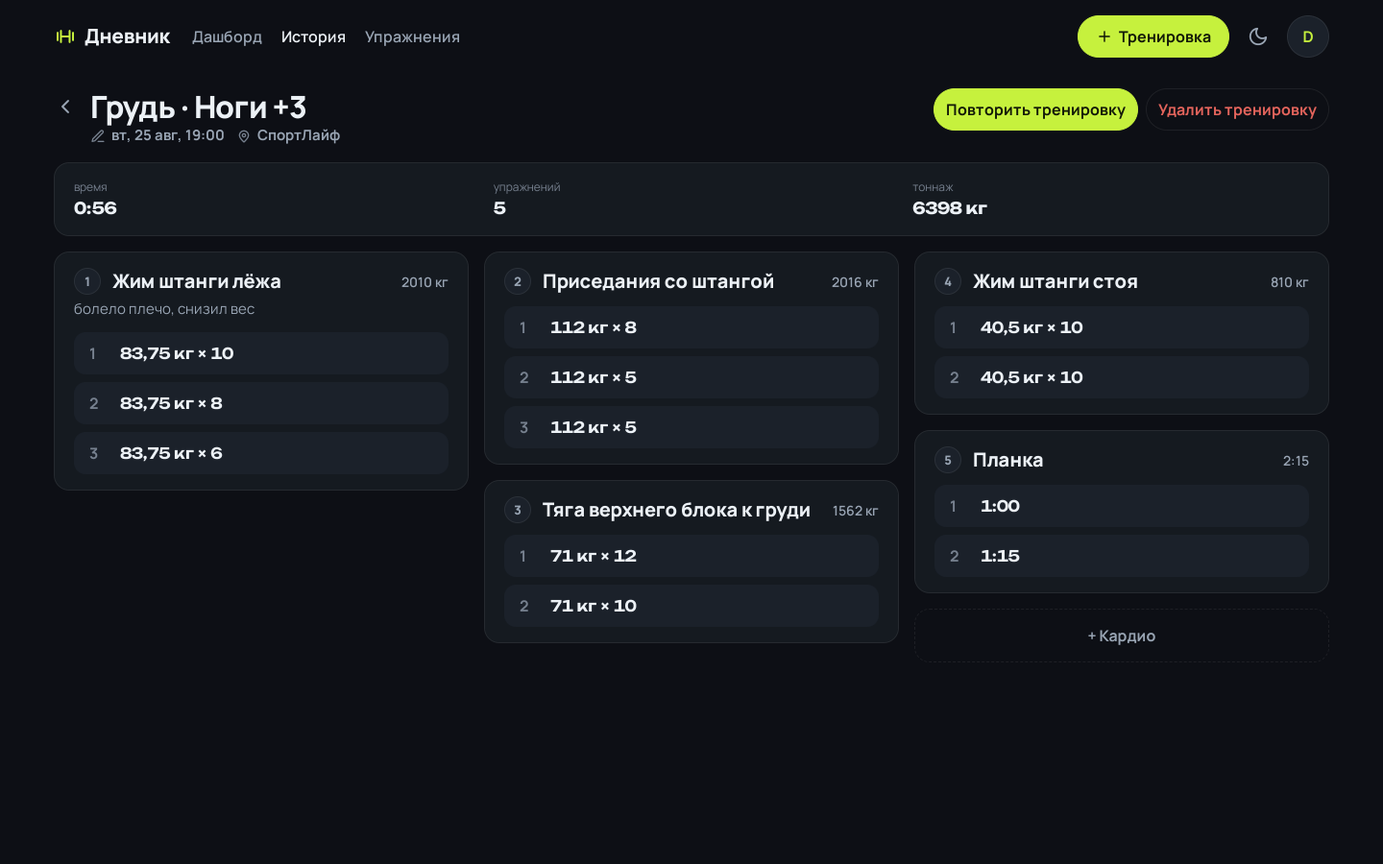
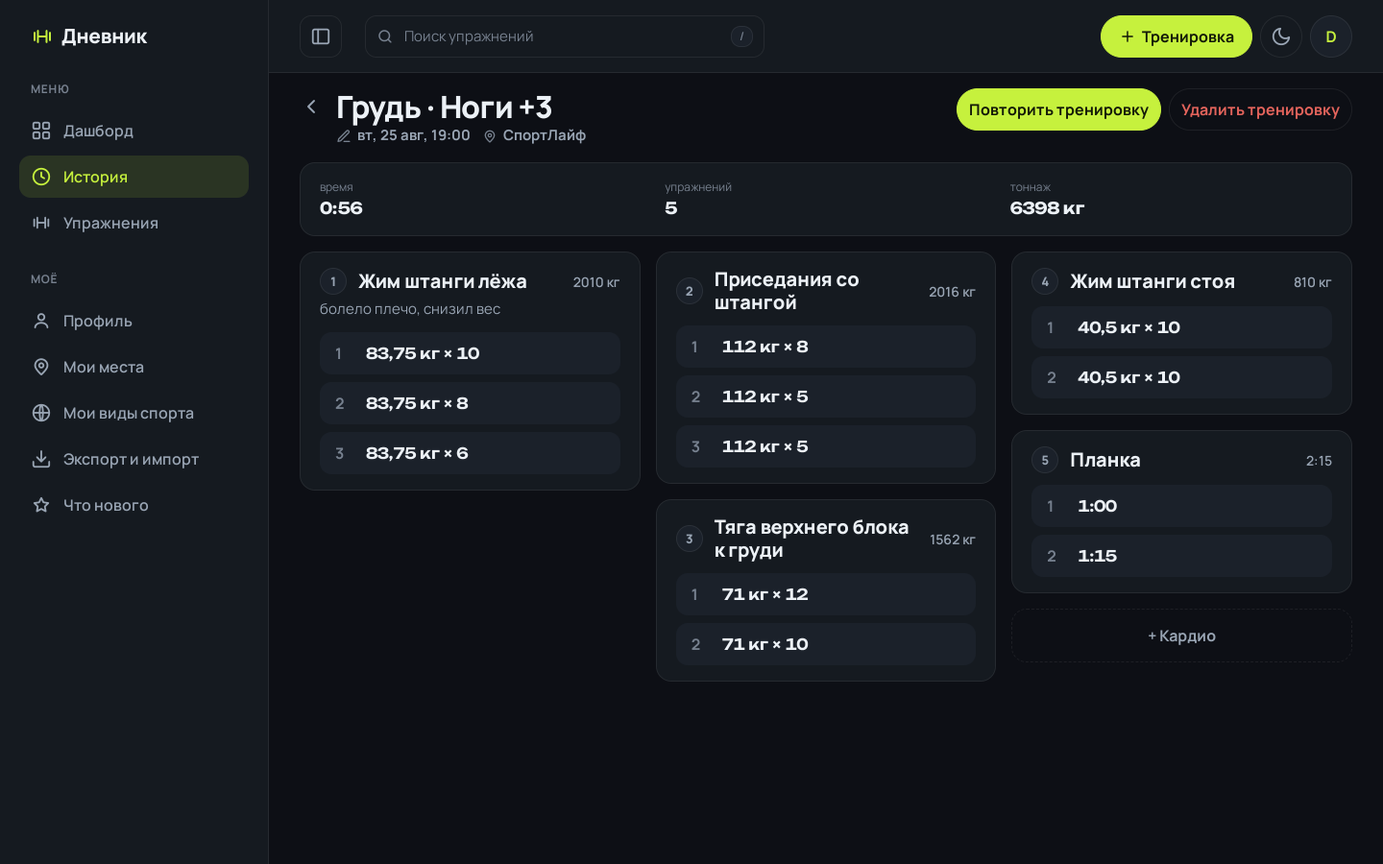
ПК: неделя истории — таблица-карточка, плитка пользователя
История на 1200 в духе TailAdmin: строки недели стоят вплотную и делят одну
рамку, скруглены только края недели, при наведении строка подсвечивается фоном.
Карточка пользователя в профиле на 1200 — плитка: рядом с боковой панелью
колонка стала узкой, и почта ломалась посреди слова. Скриншоты реализации в
docs/design пересняты с боковой панелью.

diff --git a/static/css/app.css b/static/css/app.css
@@ -3348,6 +3348,22 @@ a.btn {
   }
   .app-profile-user,
   .app-profile-catalogs { align-self: stretch; }
+  /* Карточка пользователя — плитка, как соседние: аватар сверху, почта и
+     отметка внизу. Рядом с боковой панелью колонка ~250px, и в строку с
+     аватаром длинный адрес ломался посреди слова. Почта — одной строкой с
+     многоточием, полный адрес — в title. */
+  .app-profile-user {
+    flex-direction: column;
+    align-items: flex-start;
+    justify-content: space-between;
+  }
+  .app-profile-user > div { max-width: 100%; }
+  .app-profile-email {
+    overflow: hidden;
+    overflow-wrap: normal;
+    text-overflow: ellipsis;
+    white-space: nowrap;
+  }
   /* Заголовок над плитками не нужен: ряд читается как плитки дашборда.
      Читалкам он остаётся — прячем визуально, как .visually-hidden. */
   .app-profile-catalogs > .app-section-title {
@@ -3609,8 +3625,35 @@ a.btn {
         minmax(0, 1fr)          /* заметка забирает остаток ширины */
         max-content;            /* действия */
       column-gap: var(--app-space-6);
-      row-gap: var(--app-space-2);
+      row-gap: 0;
       align-items: center;
+    }
+
+    /* Неделя — одна таблица-карточка, как у TailAdmin: строки стоят вплотную и
+       делят рамку (соседняя заезжает на пиксель), скруглены только верх первой
+       строки недели и низ последней. Всё на соседстве в плоском списке —
+       обёртки недели в разметке нет, а подгрузка «Показать ещё» дописывает
+       строки той же недели прямо за предыдущими. */
+    .app-feed > .app-workout + .app-workout {
+      margin-top: -1px;
+      border-top-left-radius: 0;
+      border-top-right-radius: 0;
+    }
+    .app-feed > .app-workout:has(+ .app-workout) {
+      border-bottom-left-radius: 0;
+      border-bottom-right-radius: 0;
+    }
+    .app-feed > .btn { margin-top: var(--app-space-4); }
+
+    /* В таблице строка не «взлетает» при наведении, как карточка, а
+       подсвечивается фоном: подъём одной строки рвал бы общую рамку недели. */
+    @media (hover: hover) and (pointer: fine) {
+      .app-feed > .app-workout-link:hover {
+        border-color: var(--app-line);
+        background-color: var(--app-raised);
+        box-shadow: none;
+        transform: none;
+      }
     }
 
     /* Заголовки недель, «Показать ещё» и пустое состояние — во всю строку:
@@ -3632,6 +3675,7 @@ a.btn {
       align-items: center;
       padding: var(--app-space-3) var(--app-space-4);
       margin-bottom: 0;
+      box-shadow: none;
     }
 
     /* Зазор в subgrid-оси берёт родитель, но прописываем то же значение и здесь:

diff --git a/templates/accounts/profile.html b/templates/accounts/profile.html
@@ -17,7 +17,7 @@
   <section class="app-card app-profile-user">
     <span class="app-avatar app-avatar-lg" aria-hidden="true">{{ user.initial }}</span>
     <div>
-      <div class="app-profile-email">{{ user.email }}</div>
+      <div class="app-profile-email" title="{{ user.email }}">{{ user.email }}</div>
       {% if email_verified %}
         <div class="app-profile-verified">
           <svg width="16" height="16" viewBox="0 0 24 24" fill="none" stroke="currentColor"

diff --git a/CLAUDE.md b/CLAUDE.md
@@ -60,7 +60,7 @@
 ## Дизайн (эталон утверждён 25.08.2026)
 
 - Визуальный эталон — макеты семи экранов (дашборд моб. и десктоп, живой режим, кардио-форма, история, профиль, «что нового»); PNG-экспорты лежат в `docs/design/`. Верстать по ним: компоновка, плотность, скругления, иерархия текста.
-- Файлы `docs/design/*-desktop.png`, **кроме `dashboard-desktop.png`**, — не макеты дизайнера, а утверждённые скриншоты реализации: десктопных макетов для этих экранов не рисовали. Живой экран, итог, профиль и «Что нового» пересняты 03.10.2026, когда ПК-версия стала дашбордом во всю ширину; каталог и история на 1440 с тех пор не менялись. Сверять с ними компоновку можно, но при расхождении с правилами ниже главнее правила.
+- Файлы `docs/design/*-desktop.png`, **кроме `dashboard-desktop.png`**, — не макеты дизайнера, а утверждённые скриншоты реализации: десктопных макетов для этих экранов не рисовали. Живой экран, итог, профиль, «Что нового» и история пересняты 03.10.2026 уже с боковой панелью (каркас TailAdmin); `exercise-desktop.png` — ещё со старой верхней навигацией: на нём график, а настоящий Chart.js в окружении разработки не отрисовывается, заглушка исказила бы снимок. Сверять с ними компоновку можно, но при расхождении с правилами ниже главнее правила.
 - Тёмная тема — основная (как в макетах); светлая строится из тех же ролей токенов, ниже даны оба набора. Bootstrap-переменные (`--bs-body-bg`, `--bs-body-color` и т.п.) переопределяются из tokens.css под оба значения `data-bs-theme`.
 - **Шрифты** (Google Fonts, woff2-файлы хранить локально в `static/fonts/`): Unbounded 600/700 — крупные числа и таймеры (утилитарный класс `.num`); Manrope 400–800 — весь остальной текст. Fallback: `system-ui, sans-serif`. Unbounded лежит одним сабсетом (`unbounded-subset.woff2`): в `.num` попадают только цифры, знаки и единицы вроде «кг», «повторов», поэтому штатные сабсеты Google качали 82 КБ ради букв, которых там не бывает. Набор символов взят с запасом — вся базовая кириллица, — так что новое слово внутри `.num` ничего не сломает; команда перегенерации записана в шапке `static/css/fonts.css`. Три реально нужных файла шрифтов предзагружаются (`rel="preload"` в `_page.html`), остальные сабсеты Manrope браузер не запрашивает.
 - **Токены тёмной темы** (из макетов): фон `#0D1015`; карточка `#151A21`; приподнятая поверхность `#1B222B`; линия `rgba(255,255,255,.08)`; текст `#EDF1F7`, вторичный `#9AA5B5`, приглушённый `#77828F`; акцент `#C6F13E` (текст на акценте `#141A08`); успех/положительная дельта `#0ca30c`.
@@ -79,7 +79,7 @@
 - **Обёртки для сеток — `div` без роли с `display: contents` ниже 768** (`.app-summary`, `.app-summary-list`, `.app-modal-cols/col`, `.app-picker-list`, `.app-catalog-group`, `.app-transfer`, `.app-form-cols/col`, `.app-news-list`, `.app-auth-aside`): на телефоне они не образуют боксов, дерево и отступы прежние, а на ПК становятся колонками. Порядок DOM не меняется — на него опираются тесты. Никогда не на кнопки, ссылки, списки и секции с подписью. Структурные селекторы, которые обёртка сломала бы, переводятся на неё: `.app-group-title:first-of-type` стал `.app-catalog-group:first-child > .app-group-title`, иначе отступ сняло бы у заголовка каждой группы — и на телефоне.
 - **Утилиты Bootstrap с `!important` на элементах, которые на ПК меняют размер, заменены своими классами** с тем же мобильным значением: `app-btn-fill` вместо `w-100` (кнопки, которые на ПК встают в ряд по содержимому), `app-start-mode` вместо `mt-3`. Из медиазапроса утилиту не перебить.
 - **Последовательность — колонками, а не строками сетки.** Упражнения в итоге тренировки раскладываются CSS `columns`: колонки заполняются сверху вниз, и 1, 2, 3 идут по первой; сетка по строкам дала бы 1, 3, 5 по левому столбцу. Новости, наоборот, — доска по рядам: новое слева сверху, хронология читается от новой к старой.
-- **История на средних экранах — доска из двух колонок** (недели, «Показать ещё» и пустое состояние — во всю строку; подгрузка вставляет карточки прямо в сетку). **На 1200px — плотные строки**: колонки задаёт список (`.app-feed`), карточки берут их через `grid-template-columns: subgrid`, поэтому цифры выравниваются через все недели без магических ширин. Всё под `@supports (subgrid)`. Состав метрик у силовой и кардио различается, поэтому колонки позиционные: 3-я — время, 4-я — «сколько», 5-я — «насколько интенсивно». Место и заметка **делят 6-ю колонку** (`.app-workout-meta`): своего трека месту не дают, потому что `max-content` зарезервировал бы его ширину во всех строках, а у истории до появления справочника места нет вовсе. На телефоне обёртка не образует бокса (`display: contents`), поэтому карточка рендерится как до фичи; на 1200px внутри колонки это один текстовый прогон с единственной точкой обрезки, а зазор даёт `margin`, а не символ-разделитель — тот остался бы висеть при обрезке. Классы в 1200-блоке перечислены явно, без `> *`: мобильное правило `.app-workout-meta > .app-place` весит два класса и перебило бы селектор с универсальным.
+- **История на средних экранах — доска из двух колонок** (недели, «Показать ещё» и пустое состояние — во всю строку; подгрузка вставляет карточки прямо в сетку). **На 1200px — плотные строки**: колонки задаёт список (`.app-feed`), карточки берут их через `grid-template-columns: subgrid`, поэтому цифры выравниваются через все недели без магических ширин. Неделя выглядит одной таблицей-карточкой (приём TailAdmin): строки стоят вплотную и делят рамку (`margin-top: -1px`), скруглены только верх первой строки недели и низ последней — на соседстве в плоском списке (`.app-workout + .app-workout`, `:has(+ .app-workout)`), потому что обёртки недели в разметке нет, а «Показать ещё» дописывает строки той же недели прямо за предыдущими. Строка при наведении подсвечивается фоном, а не «взлетает»: подъём одной строки рвал бы общую рамку. Всё под `@supports (subgrid)`. Состав метрик у силовой и кардио различается, поэтому колонки позиционные: 3-я — время, 4-я — «сколько», 5-я — «насколько интенсивно». Место и заметка **делят 6-ю колонку** (`.app-workout-meta`): своего трека месту не дают, потому что `max-content` зарезервировал бы его ширину во всех строках, а у истории до появления справочника места нет вовсе. На телефоне обёртка не образует бокса (`display: contents`), поэтому карточка рендерится как до фичи; на 1200px внутри колонки это один текстовый прогон с единственной точкой обрезки, а зазор даёт `margin`, а не символ-разделитель — тот остался бы висеть при обрезке. Классы в 1200-блоке перечислены явно, без `> *`: мобильное правило `.app-workout-meta > .app-place` весит два класса и перебило бы селектор с универсальным.
 - **Справочник упражнений на 1200px — мастер-деталь по выбору**: пока упражнение не выбрано, список идёт во всю ширину (плитки «Я тренирую» заполняют ряд, справочник — колонками доски): пустая панель-заглушка на пол-экрана рядом с узкой колонкой и делала страницу полумобильной. Выбор упражнения делит экран — `exercise.js` ставит `.is-open` на `[data-exercise-catalog]` (класс, а не `:has()`: без его поддержки панель осталась бы скрытой, и клик ничего бы не показал; класс ставится до сборки графика — на скрытом canvas `renderChart` молча выходит). Крестик в шапке панели (`data-exercise-close`, только в панели), Esc (кроме как поверх модалки) и «назад» закрывают её; крестик — новой записью в истории на адрес списка с фильтрами, а не `history.back()`: после нескольких открытых упражнений «назад» вело бы к предыдущему упражнению. `ExerciseDetailView` смотрит `HX-Request` и отдаёт `_exercise_detail_body.html` вместо страницы; отдельного URL у панели нет, чтобы проверка доступа осталась в одном месте. Клик перехватывается в JS: в htmx `preventDefault()` для клика по `<a>` срабатывает раньше фильтра события, поэтому `hx-trigger="click[matchMedia…]"` убил бы навигацию на мобильном. График после свопа пересобирается через `appCharts.destroy()` — иначе Chart.js падает на переиспользованном canvas. Левая колонка 30rem и **без внутренней прокрутки**: своя полоса торчала посреди экрана, а липкой колонку делать нельзя — залипший элемент выше вьюпорта перестаёт двигаться, и всё ниже кромки становится недостижимым. По той же причине липкая только шапка панели (`.app-exercise-head`), а не панель: у упражнения с двумя десятками тренировок она уходит на три экрана. Элементы списка общаются с JS через `data-exercise-item` / `data-exercise-link`, а не через классы: классы стилевые и меняются вместе с вёрсткой, а в мастер-деталь одинаково попадают и плитка, и строка. Порядок блоков на 1200px задаёт `order` у прямых детей `.app-exercise`, поэтому **новый блок обязан быть одной секцией со своим `order`**: заголовок и список по отдельности разъедутся по разным местам экрана. Ритм между блоками — `gap` флекс-колонки `.app-exercise` на всех ширинах, а не поля блоков: при перестановке `order` поле «снизу» оказывалось не у того соседа, и график вставал вплотную к настройкам. Сводка «По местам» (рекорд и число тренировок в каждом месте) считается в Python по уже загруженным подходам — `select_related("workout__location")` добавляет один LEFT JOIN в тот же запрос, поэтому бюджет 9 не двигается; показывается только при двух и более разрезах, «Место не указано» — такой же разрез, как остальные.
 - **Каталог упражнений делится на два блока**: сверху «Я тренирую» — плитки упражнений с записанными тренировками (рекорд, число тренировок, дата последней, свежие первыми), ниже полный справочник по группам мышц. Признак — `workouts_count > 0`, **а не наличие рекорда**: метрика весовых упражнений это вес, поэтому у подтягиваний с собственным весом и у упражнения со сменённой единицей рекорда нет, а тренировок двадцать. Дата берётся вторым агрегатом на том же джойне (`Max("sets__workout__started_at", filter=…)`) — это ноль дополнительных запросов, а бюджет каталога упёрт в 7. Выполненное упражнение остаётся и в справочнике: иначе в «Груди» не оказалось бы жима лёжа. Один URL поэтому соответствует двум элементам, и подсветка выбранного зажигает оба — это следствие решения, а не дефект. При активном поиске или фильтре блок плиток скрывается: тогда нужен один список результатов.
 - **Живой экран — явные ряды**: с 768 две колонки (слева текущее упражнение со степперами, справа стопка: отдых, «Дальше», «Выполнено», кардио), с 1200 три равные зоны — «Сейчас», «Дальше» и колонка из таймера, выполненного и кардио. Текущее упражнение (и «Дальше» на 1200) занимает ряды до последнего `1fr`, который забирает его лишнюю высоту; с автоматическими рядами колонки были бы связаны общей строкой, и правая стопка начиналась бы только под карточкой степперов. Пустой ряд схлопывается в ноль — поэтому `row-gap` нет, отступы дают блоки. Без текущего упражнения (`:not(:has(.app-live-now *))`) блоки занимают и рабочую колонку. **Таймер не липкий**: в сетке липкость ограничена ячейкой, а ряд таймера равен его же высоте — двигаться ему некуда, и прежнее «таймер на виду» так и не работало. Новый блок колонки — новый ряд.
@@ -88,7 +88,7 @@
 - **Цель на неделю** (только ПК, приём TailAdmin «Monthly Target»): `User.weekly_goal_minutes` (NULL = цели нет; границы 0:30–40:00 держит `CheckConstraint weekly_goal_in_range` — цель правят и через админку, а ноль дал бы деление на ноль). Неделя календарная (пн–вс), минуты берутся из `weekly_chart` (`totals`, последний элемент — эта неделя): тот же счёт, что у графика рядом, и ни одного запроса сверху — бюджет дашборда не двигается. Шкала — SVG-полукруг с `pathLength="100"`: длина дуги задаётся прямо процентом, без JS; цвет — `--app-accent-text` (чистый лайм на белой карточке не виден). Процент может быть больше ста — дуга тогда полная, а число честное. Задаётся модалкой из самой карточки (`profile_goal` в `accounts`, схема дня черновика: ответ — карточка out-of-band, модалка закрывается сама); часы принимаются как «4», «4,5» и «4:30». До 1200 боковая часть дашборда не образует бокса, и цель с прожектором стоят рядом сразу под плитками (порядок — `order`, DOM прежний), с 1200 цель — первая в правой колонке. На телефоне карточки нет: мобильный дашборд остаётся по макету.
 - **«Статистика» за год** (только ПК, приём TailAdmin «Statistics»): время, тоннаж и дистанция по месяцам за 12 месяцев, вкладки-сегменты (`.app-tabs`, поверхности — токены `--app-segment-*`: в тёмной теме активный сегмент светлее подложки, в светлой — белая карточка на сером). Дашборд рендерит только заготовку той же высоты, а данные карточка забирает сама, когда попадает в поле зрения (`hx-trigger="intersect once"` → `dashboard_stats`): на телефоне она скрыта, IntersectionObserver её не видит, и запроса нет вовсе, а бюджет самого дашборда не двигается. Все три вкладки приходят одним ответом (`stats.monthly_stats` — четыре запроса: тренировки, тоннаж, кардио-части, виды спорта; тест бюджета — 8 вместе с сессией и SAVEPOINT), поэтому вкладки переключает `dashboard.js` без запросов. Время делится между хозяином и частями так же, как в `weekly_chart`, месяц — по локальной дате. График — линии видов спорта с мягкой градиентной заливкой (`appCharts.buildArea`), одна ось справа, легенда HTML-ом. В Playwright этого окружения IntersectionObserver не срабатывает (нет кадров отрисовки, как и у rAF) — на скриншотах карточку подгружает `htmx.ajax`.
 - **Справочник во всю ширину**: плитки «Я тренирую» заполняют ряд (`auto-fill` по `--app-measure-tile`), справочник идёт колонками доски (2 с 768, 3 с 1200, пока панель не открыта), группа — неразрывный блок; отфильтрованный список без заголовков групп колонками не режется. **Страница упражнения** — во всю ширину: перестановка блоков, сетка настроек и крупный график — с 768, на 1200 четыре блока настроек в один ряд (`:where(.app-main) > .app-exercise` — панель каталога не прямой ребёнок main, её правило не задевает).
-- **Профиль — плитки**: с 768 две колонки, с 1200 четыре — пользователь и три плитки справочников с крупными счётчиками в одном ряду, как плитки дашборда, ниже настройки, приложение и аккаунт. Счётчики уже посчитаны: бюджет профиля 9 из 9 не тронут.
+- **Профиль — плитки**: с 768 две колонки, с 1200 четыре — пользователь и три плитки справочников с крупными счётчиками в одном ряду, как плитки дашборда, ниже настройки, приложение и аккаунт. Карточка пользователя на 1200 — тоже плитка (аватар сверху, почта одной строкой с многоточием и полным адресом в `title`): рядом с боковой панелью колонка ~250px, и в строку с аватаром длинный адрес ломался посреди слова. Счётчики уже посчитаны: бюджет профиля 9 из 9 не тронут.
 - **Окна на ПК — диалог по центру шириной с форму** (34rem), с потолком по высоте экрана и своей прокруткой; широкий вариант `.app-modal-wide` (56rem) — у окна новой тренировки (только когда слева есть идущая или подготовленные) и у выбора упражнения (слева найденное со своей прокруткой, справа форма создания; пока создавать нечего, справочник — в две колонки). Своё правило `.app-pick-list form { display: contents }` растворяет формы в строках списка, поэтому форме создания в сетке возвращён `display: block`. Нижняя шторка телефона не меняется.
 - **Вход и регистрация с 1200** — бренд-панель слева на всю высоту (логотип и короткая подпись о дневнике), форма справа; до 1200 экран прежний.
 - **Отделка описана один раз** в секции перед первым медиазапросом: `--app-transition-ui` (анимируем только цвет, фон, рамку, filter, тень и transform — никогда width/height/padding), hover целиком внутри `@media (hover: hover) and (pointer: fine)` (иначе на тапе подсветка залипает), фокус — `--app-focus-outline` через `:where(...)` с нулевой специфичностью. `prefers-reduced-motion` гасит токены движения, а не все переходы: у полосы таймера отдыха переход функциональный.
